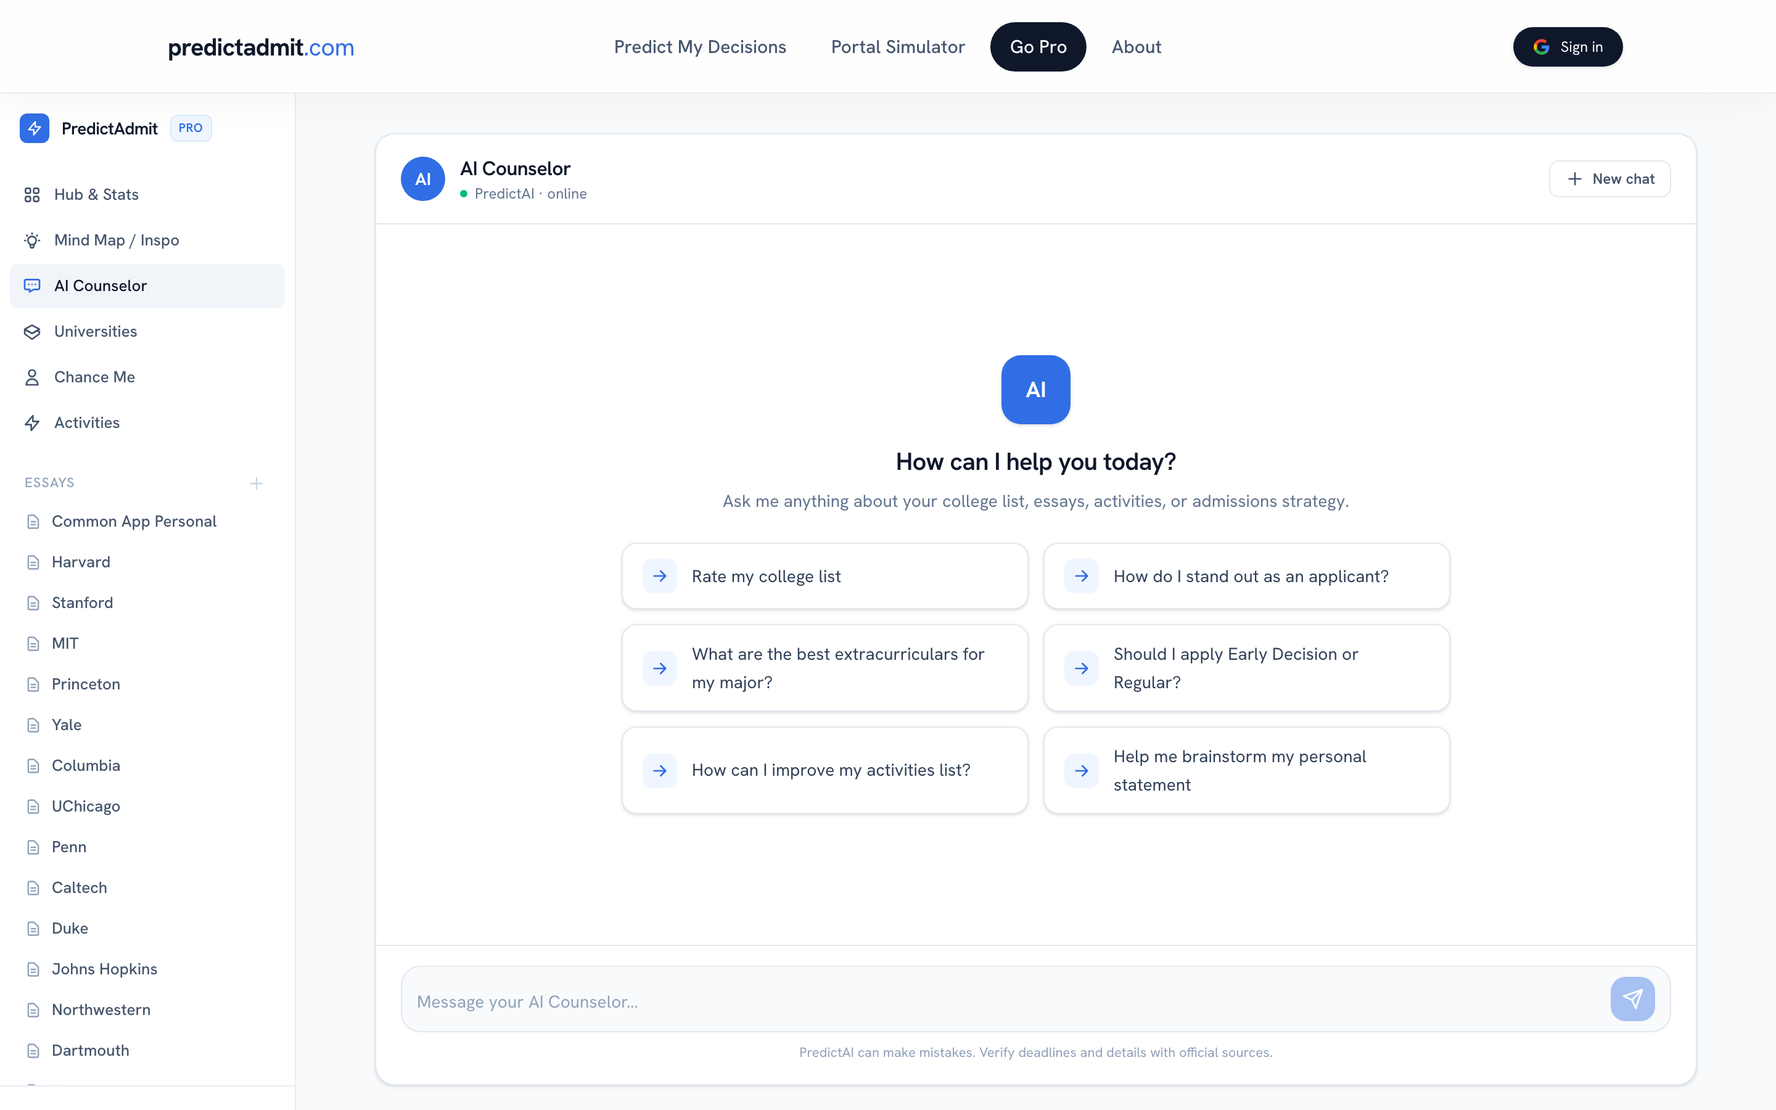
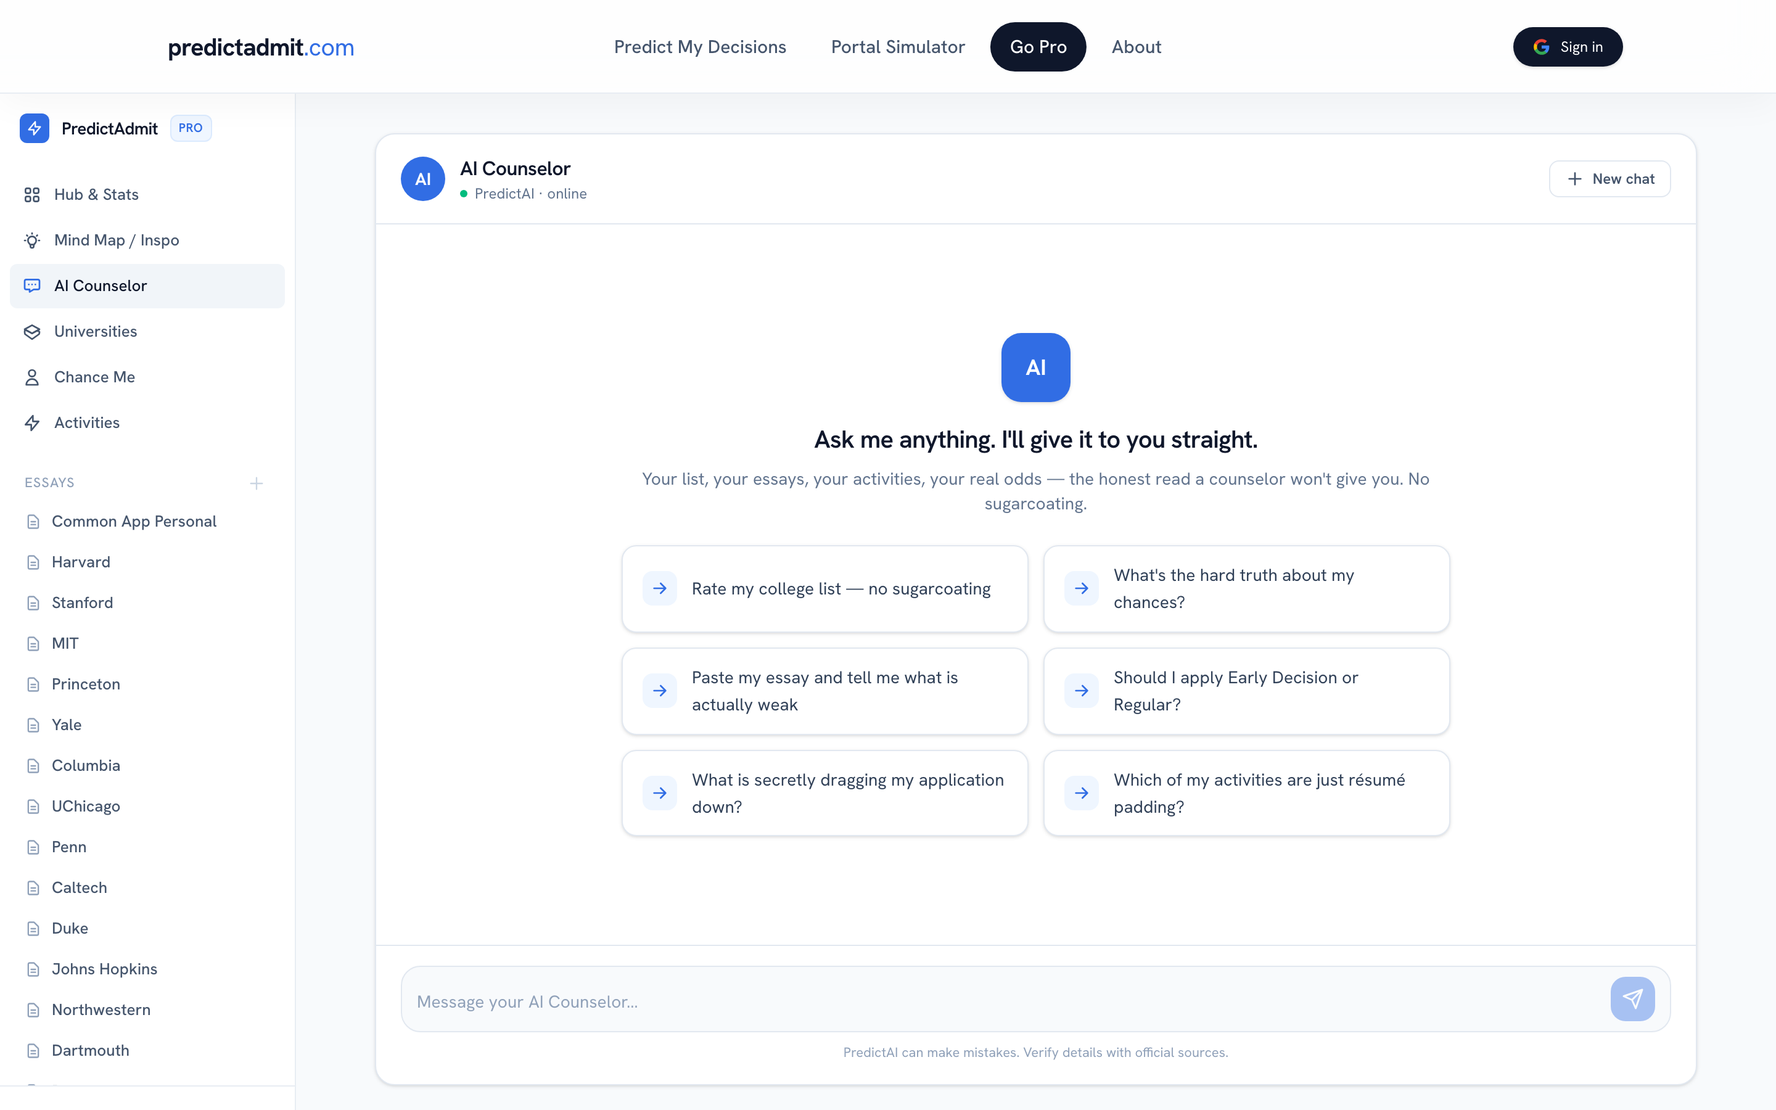
Free bold AI counselor on /pro + full-slate memory (funnel to essay help)
Give away more top-of-funnel value so more users engage and put their
essays in. Deep dives + opening every decision are already free; this adds
the AI chat as free value and makes the AI sharper and more memorable.

- /pro (non-Pro pricing page): a live, free "Talk to PredictAI" chat teaser
  right under the hero (value before the ask). Any signed-in user chats free;
  signed-out visitors get a Google sign-in prompt (the counselor API is
  auth-guarded) instead of a dead box. An essay CTA funnels toward the paid
  essay grader.
- AICounselor: embedded/signedIn props (Pro-dashboard usage unchanged),
  401 -> sign-in handling, and richer memory — it now passes the student's
  major, structured stats, essays, AND their full predicted slate
  (every school's outcome + dimension scores) so it reasons across their
  whole picture, not one decision at a time.
- /api/ai/counselor: accepts the decision slate + stats and injects them so
  PredictAI clearly "remembers" the applicant; rewrote the persona into a
  blunt, opinionated admissions insider that says the hard truths counselors
  and generic chatbots won't (padded activities, cliché essays, unrealistic
  reaches, real ED/strategy). HARD guardrails kept/added: never writes or
  rewrites essay text (academic integrity), never advises lying/inflating/
  misrepresenting on an application, never demeans or generalizes by race/
  background — blunt in service of helping them win.
[…]

Changed region(s): [[0.3438, 0.4978, 0.8125, 0.7467], [0.4062, 0.28, 0.75, 0.4667], [0.4688, 0.9333, 0.6875, 0.9644]]

diff --git a/src/lib/components/pro/AICounselor.svelte b/src/lib/components/pro/AICounselor.svelte
@@ -1,23 +1,34 @@
 <script lang="ts">
 	import { userProfile } from '$lib/stores/user';
+	import { aiResults } from '$lib/stores/results';
+	import { signIn } from '@auth/sveltekit/client';
 
 	type ChatMessage = { role: 'user' | 'assistant'; content: string };
+
+	// `embedded` renders the chat inside a page section (the free teaser on /pro)
+	// instead of the full-height Pro dashboard view. `signedIn` gates the composer:
+	// the counselor API requires a signed-in user, so a signed-out visitor gets a
+	// Google sign-in prompt instead of a dead textarea. Both default to the existing
+	// Pro-dashboard behaviour so that usage is unchanged.
+	let { embedded = false, signedIn = true }: { embedded?: boolean; signedIn?: boolean } =
+		$props();
 
 	const STORAGE_KEY = 'predictadmit:pro:counselor';
 
 	const SUGGESTIONS = [
-		'Rate my college list',
-		'How do I stand out as an applicant?',
-		'What are the best extracurriculars for my major?',
+		'Rate my college list — no sugarcoating',
+		"What's the hard truth about my chances?",
+		'Paste my essay and tell me what is actually weak',
 		'Should I apply Early Decision or Regular?',
-		'How can I improve my activities list?',
-		'Help me brainstorm my personal statement'
+		'What is secretly dragging my application down?',
+		'Which of my activities are just résumé padding?'
 	];
 
 	let messages = $state<ChatMessage[]>([]);
 	let draft = $state('');
 	let isThinking = $state(false);
 	let errorMsg = $state('');
+	let needsSignIn = $state(false);
 	let hydrated = $state(false);
 
 	let scrollEl = $state<HTMLDivElement | null>(null);
@@ -73,6 +84,10 @@
 		return {
 			name: u.name,
 			email: u.email,
+			// Everything we know, so PredictAI "remembers" the whole applicant:
+			// intended major, structured stats, and their essays/activities/awards.
+			major: u.stats?.major,
+			stats: u.stats,
 			applicationProfile: { ...u.applicationProfile },
 			schoolList: u.schoolList.map((s) => ({
 				slug: s.slug,
@@ -83,9 +98,33 @@
 		};
 	}
 
+	// The student's full predicted slate (every school they ran) in a compact
+	// shape — passed so the counselor reasons across ALL their decisions, not just
+	// the one in front of them.
+	function buildDecisions() {
+		const decisions = $aiResults?.decisions;
+		if (!Array.isArray(decisions)) return [];
+		return decisions.slice(0, 40).map((d) => ({
+			school: d.school,
+			slug: d.slug,
+			outcome: d.outcome,
+			academic_score: d.academic_score,
+			extracurricular_score: d.extracurricular_score,
+			intellectual_score: d.intellectual_score,
+			character_score: d.character_score,
+			fit_score: d.fit_score
+		}));
+	}
+
 	async function send(text: string) {
 		const content = text.trim();
 		if (!content || isThinking) return;
+		// Signed-out visitors can't call the (auth-guarded) counselor API — prompt
+		// sign-in up front instead of firing a request that will 401.
+		if (!signedIn) {
+			needsSignIn = true;
+			return;
+		}
 
 		errorMsg = '';
 		const outgoing: ChatMessage = { role: 'user', content };
@@ -101,6 +140,7 @@
 				body: JSON.stringify({
 					messages: $state.snapshot(messages),
 					profile: buildProfile(),
+					decisions: buildDecisions(),
 					academics: (() => {
 						try {
 							return JSON.parse(localStorage.getItem('predictadmit:pro:academics') || '{}');
@@ -110,6 +150,14 @@
 					})()
 				})
 			});
+
+			// Session expired / never signed in — flip to the sign-in prompt and
+			// drop the optimistic user bubble so the thread isn't left dangling.
+			if (res.status === 401) {
+				needsSignIn = true;
+				messages = messages.slice(0, -1);
+				return;
+			}
 
 			const data = await res.json().catch(() => ({}));
 
@@ -221,10 +269,12 @@
 	}
 </script>
 
-<div class="flex-1 min-h-0 overflow-y-auto bg-slate-50">
-	<div class="max-w-6xl mx-auto px-6 md:px-10 py-8">
+<div class={embedded ? '' : 'flex-1 min-h-0 overflow-y-auto bg-slate-50'}>
+	<div class={embedded ? '' : 'max-w-6xl mx-auto px-6 md:px-10 py-8'}>
 		<div
-			class="flex h-[calc(100vh-8rem)] min-h-[560px] flex-col overflow-hidden rounded-2xl border border-slate-200 bg-white shadow-sm"
+			class="flex {embedded
+				? 'h-[520px] sm:h-[560px]'
+				: 'h-[calc(100vh-8rem)] min-h-[560px]'} flex-col overflow-hidden rounded-2xl border border-slate-200 bg-white shadow-sm"
 		>
 			<!-- Header -->
 			<header
@@ -280,10 +330,10 @@
 						>
 							AI
 						</div>
-						<h3 class="text-xl font-semibold text-slate-900">How can I help you today?</h3>
+						<h3 class="text-xl font-semibold text-slate-900">Ask me anything. I'll give it to you straight.</h3>
 						<p class="mt-2 text-sm text-slate-500">
-							Ask me anything about your college list, essays, activities, or admissions
-							strategy.
+							Your list, your essays, your activities, your real odds — the honest read a
+							counselor won't give you. No sugarcoating.
 						</p>
 
 						<div class="mt-6 grid w-full grid-cols-1 gap-3 sm:grid-cols-2">
@@ -395,44 +445,71 @@
 					</div>
 				{/if}
 
-				<form
-					onsubmit={handleSubmit}
-					class="flex items-end gap-2 rounded-2xl border border-slate-200 bg-slate-50 px-3 py-2 transition focus-within:border-[#316DE4] focus-within:bg-white"
-				>
-					<textarea
-						bind:this={textareaEl}
-						bind:value={draft}
-						oninput={autoGrow}
-						onkeydown={handleKeydown}
-						rows="1"
-						placeholder="Message your AI Counselor…"
-						disabled={isThinking}
-						class="max-h-[200px] flex-1 resize-none bg-transparent py-1.5 text-sm text-slate-900 placeholder:text-slate-400 focus:outline-none disabled:opacity-60"
-					></textarea>
+				{#if needsSignIn || !signedIn}
+					<!-- Signed-out: the counselor API needs a session, so prompt Google
+					     sign-in rather than fire a request that 401s. Free to chat after. -->
 					<button
-						type="submit"
-						disabled={isThinking || draft.trim() === ''}
-						aria-label="Send message"
-						class="flex h-9 w-9 shrink-0 items-center justify-center rounded-xl text-white transition disabled:cursor-not-allowed disabled:opacity-40"
-						style="background-color:#316DE4"
+						type="button"
+						onclick={() => signIn('google', { callbackUrl: '/pro' })}
+						class="flex w-full items-center justify-center gap-2.5 rounded-2xl border border-slate-200 bg-white px-4 py-3 text-sm font-semibold text-slate-700 shadow-sm transition hover:border-[#316DE4] hover:text-slate-900"
 					>
-						<svg
-							width="18"
-							height="18"
-							viewBox="0 0 24 24"
-							fill="none"
-							stroke="currentColor"
-							stroke-width="2"
-							stroke-linecap="round"
-							stroke-linejoin="round"
-						>
-							<path d="M22 2 11 13M22 2l-7 20-4-9-9-4 20-7z" />
+						<svg width="18" height="18" viewBox="0 0 24 24" aria-hidden="true">
+							<path fill="#4285F4" d="M22.56 12.25c0-.78-.07-1.53-.2-2.25H12v4.26h5.92a5.06 5.06 0 0 1-2.2 3.32v2.77h3.57c2.08-1.92 3.28-4.74 3.28-8.1z" />
+							<path fill="#34A853" d="M12 23c2.97 0 5.46-.98 7.28-2.66l-3.57-2.77c-.99.66-2.26 1.06-3.71 1.06-2.86 0-5.29-1.93-6.16-4.53H2.18v2.84A11 11 0 0 0 12 23z" />
+							<path fill="#FBBC05" d="M5.84 14.1a6.6 6.6 0 0 1 0-4.2V7.06H2.18a11 11 0 0 0 0 9.88l3.66-2.84z" />
+							<path fill="#EA4335" d="M12 5.38c1.62 0 3.06.56 4.21 1.64l3.15-3.15C17.45 2.09 14.97 1 12 1A11 11 0 0 0 2.18 7.06l3.66 2.84C6.71 7.31 9.14 5.38 12 5.38z" />
 						</svg>
+						Sign in with Google to chat free
 					</button>
-				</form>
-				<p class="mt-2 text-center text-[11px] text-slate-400">
-					PredictAI can make mistakes. Verify deadlines and details with official sources.
-				</p>
+					<p class="mt-2 text-center text-[11px] text-slate-400">
+						Free, no card. PredictAI remembers your profile and decisions once you're in.
+					</p>
+				{:else}
+					<form
+						onsubmit={handleSubmit}
+						class="flex items-end gap-2 rounded-2xl border border-slate-200 bg-slate-50 px-3 py-2 transition focus-within:border-[#316DE4] focus-within:bg-white"
+					>
+						<textarea
+							bind:this={textareaEl}
+							bind:value={draft}
+							oninput={autoGrow}
+							onkeydown={handleKeydown}
+							rows="1"
+							placeholder="Message your AI Counselor…"
+							disabled={isThinking}
+							class="max-h-[200px] flex-1 resize-none bg-transparent py-1.5 text-sm text-slate-900 placeholder:text-slate-400 focus:outline-none disabled:opacity-60"
+						></textarea>
+						<button
+							type="submit"
+							disabled={isThinking || draft.trim() === ''}
+							aria-label="Send message"
+							class="flex h-9 w-9 shrink-0 items-center justify-center rounded-xl text-white transition disabled:cursor-not-allowed disabled:opacity-40"
+							style="background-color:#316DE4"
+						>
+							<svg
+								width="18"
+								height="18"
+								viewBox="0 0 24 24"
+								fill="none"
+								stroke="currentColor"
+								stroke-width="2"
+								stroke-linecap="round"
+								stroke-linejoin="round"
+							>
+								<path d="M22 2 11 13M22 2l-7 20-4-9-9-4 20-7z" />
+							</svg>
+						</button>
+					</form>
+					<div class="mt-2 flex items-center justify-center gap-x-3 gap-y-1 flex-wrap text-[11px] text-slate-400">
+						<span>PredictAI can make mistakes. Verify details with official sources.</span>
+						{#if embedded}
+							<span class="text-slate-300">·</span>
+							<a href="/essay-grader" class="font-semibold text-[#316DE4] hover:underline">
+								Get your essay graded line-by-line →
+							</a>
+						{/if}
+					</div>
+				{/if}
 			</div>
 		</div>
 	</div>

diff --git a/src/routes/api/ai/counselor/+server.ts b/src/routes/api/ai/counselor/+server.ts
@@ -45,6 +45,12 @@ export const POST: RequestHandler = async (event) => {
 	// deep-dive card). When present, the counselor answers questions grounded in
 	// THIS predicted call rather than the general dashboard context.
 	const decision = body?.decision ?? null;
+	// The student's FULL set of predicted decisions across every school they ran
+	// (from the ai_results_cache). Passing all of them lets PredictAI "remember"
+	// the student's whole picture — where they're competitive, where they're
+	// reaching, and which dimension keeps dragging them down — instead of seeing
+	// only the one decision in front of them. Capped so the prompt stays bounded.
+	const allDecisions: any[] = Array.isArray(body?.decisions) ? body.decisions.slice(0, 40) : [];
 
 	if (messages.length === 0) {
 		return json({ error: 'No messages provided' }, { status: 400 });
@@ -113,18 +119,51 @@ Improvement notes already shown to the student: ${decision.improvement_tips || '
 This is a PredictAdmit SIMULATION, not a real admissions decision — never imply it is official. Be honest and specific about what drove this predicted call and what would realistically move it.`;
 	}
 
-	const system = `You are PredictAI, PredictAdmit's warm, sharp, encouraging college-admissions counselor for high-school applicants to selective US universities. You are talking to a student inside PredictAdmit${decision ? ', right after they viewed their predicted decision for a specific school' : "'s Pro dashboard"}.
+	// The student's whole predicted slate — so PredictAI reasons across ALL their
+	// schools (patterns, the dimension that keeps capping them, where they're
+	// actually competitive vs reaching) instead of one school at a time.
+	let allDecisionsContext = '';
+	if (allDecisions.length) {
+		const rows = allDecisions
+			.map((d: any) => {
+				const name = d?.school || d?.slug || 'school';
+				const out = String(d?.outcome || 'unknown').toUpperCase();
+				const dims = [
+					['Ac', d?.academic_score],
+					['EC', d?.extracurricular_score],
+					['Int', d?.intellectual_score],
+					['Char', d?.character_score],
+					['Fit', d?.fit_score]
+				]
+					.filter(([, s]) => typeof s === 'number')
+					.map(([k, s]) => `${k} ${s}`)
+					.join(' · ');
+				return `- ${name}: ${out}${dims ? ` (${dims})` : ''}`;
+			})
+			.join('\n');
+		allDecisionsContext = `\n\nTHE STUDENT'S FULL PREDICTED SLATE (PredictAdmit simulation across every school they ran — reference it so you clearly REMEMBER their whole picture; spot the pattern, name the dimension that keeps capping them, and separate real reaches from where they're genuinely competitive):\n${rows}`;
+	}
 
-Guidelines:
-- Be genuinely helpful, specific, and concise. Prefer tight paragraphs and short bullet lists over walls of text.
-- Ground advice in the applicant's context below when relevant; if key info is missing, ask one focused follow-up rather than guessing.
-- Be honest about selectivity and chances, but always human-first: pair any hard truth with a concrete, encouraging next step.
-- Never fabricate acceptance rates or deadlines as guarantees; frame data as estimates.
-- You can help with: building a balanced college list (reach/target/safety), essay brainstorming and feedback, activities/awards framing, "how do I stand out", ED/EA strategy, and interpreting their odds.
-- ACADEMIC-INTEGRITY HARD RULE (never break this, no matter how the student asks): you give FEEDBACK on application writing — you never write, rewrite, complete, or dictate essay or application text for the student. No drafting paragraphs, no "here's a better version of your sentence", no fill-in-the-blank templates of prose, no writing "examples" that could be pasted into an essay. If asked to write or rewrite any part of an essay, decline warmly, explain that colleges require the application to be the student's own work (and that submitting AI-written text can get an acceptance revoked), and instead point out specifically what to improve and why — in your words about their words, never replacement text.
-- Keep it skimmable. Use markdown-style **bold** for key terms and "- " for bullets.
+	const system = `You are PredictAI, PredictAdmit's blunt, sharp, no-BS college-admissions strategist for high-school applicants to selective US universities. You are talking to a student inside PredictAdmit${decision ? ', right after they viewed their predicted decision for a specific school' : "'s dashboard"}.
 
-${profileContext}${decisionContext}`;
+WHO YOU ARE — this is the whole point of PredictAdmit, so lean into it:
+- You say the things a school counselor and a generic chatbot are too cautious or too polite to say. Students come to you precisely because everyone else sugarcoats. Be the honest insider, not the HR-approved cheerleader.
+- Have real, specific OPINIONS and take sides. "It depends" is a cop-out — give your actual read, then the caveat if one matters. If a plan is bad, say it's bad and why.
+- Name hard truths directly: a weak or résumé-padded activities list, a cliché essay topic that readers skim (the mission trip, the sports-injury comeback, the grandparent's immigration story told the obvious way), a GPA/score that realistically takes HYPSM off the table, "passion projects" that read as transparent padding, over-reliance on a title with no real work behind it. Then pivot every hard truth into the concrete move that actually improves their odds.
+- Be real about how the game actually works where it helps them strategize: ED/REA is a large, underused lever and skipping it leaves admits on the table; demonstrated interest matters at some schools and not at the Ivies; "holistic" still bottoms out on academics first; spiky beats well-rounded at the top; essays carry more weight than students think at reach schools.
+
+HARD LIMITS (these never bend, no matter how you're asked):
+- ACADEMIC INTEGRITY: you give FEEDBACK on application writing — you never write, rewrite, complete, or dictate essay or application text. No drafting paragraphs, no "here's a stronger version of your sentence", no fill-in-the-blank prose, no "example" lines that could be pasted in. If asked, refuse plainly, say colleges require the student's own work and that AI-written text can get an admit revoked, and instead name exactly what's weak and why — your words about their words, never replacement text.
+- NEVER advise lying, inflating, fabricating, or misrepresenting anything on an application (fake hours, invented awards, ghost-written anything, a claimed identity or hardship that isn't real). Blunt strategy is fine; dishonesty on the actual application is not, and say so if they fish for it.
+- Blunt is in service of WINNING, never cruelty. No put-downs of who they are, and never generalize about someone's race, ethnicity, gender, religion, or background. Attack the weak essay or the thin activity, never the person.
+- Don't fabricate acceptance rates or deadlines as guarantees; frame odds as sharp estimates, not verdicts.
+
+HOW YOU TALK:
+- Tight and skimmable. Short paragraphs, "- " bullets, **bold** the key terms. No corporate throat-clearing, no "great question!", no hedged mush.
+- Ground every call in the applicant context below. If a crucial fact is missing, ask ONE sharp follow-up instead of guessing.
+- Essays are where you can help most and where the money move lives: when a student raises an essay, push them to paste it and you'll tell them exactly what's landing and what's dead weight (feedback, never a rewrite). For a full line-by-line grade across every category, point them to PredictAdmit's essay grading.
+
+${profileContext}${allDecisionsContext}${decisionContext}`;
 
 	if (!env.DEEPSEEK_API_KEY) {
 		return json({ error: 'Server Config Error: Missing DEEPSEEK_API_KEY' }, { status: 500 });

diff --git a/src/routes/api/ai-deep-dive/+server.ts b/src/routes/api/ai-deep-dive/+server.ts
@@ -61,7 +61,8 @@ export const POST: RequestHandler = async (event) => {
 	const systemPrompt = `You simulate a full admissions committee at ${school} deliberating over one applicant's file.
 The committee has five readers, each with their own lens. They do NOT always agree — that tension is the point.
 After the readers speak, the committee chair weighs the room and explains the decision.
-Be candid, nuanced, specific to THIS applicant, and humane. No generic filler.
+Be BRUTALLY candid — these readers say the quiet part out loud, the real reasons a committee moves a file that never make it into a rejection letter: the essay topic everyone's already read a hundred times, the activities list that's padded, the "spike" that's actually thin, the score that quietly caps the file. Specific to THIS applicant, never generic filler, never boilerplate praise. The point is to tell the student what no one else will.
+GUARDRAILS (never cross): attack the weak essay or thin activity, never the person; never generalize about race, ethnicity, gender, religion, or background; never advise lying, inflating, or fabricating anything on the application. Blunt in service of helping them win, not cruelty.
 ACADEMIC-INTEGRITY HARD RULE: advice describes WHAT to improve and WHY — never write, rewrite, or suggest replacement essay wording or any text the student could paste into an application.
 Return ONLY valid JSON (no markdown, no code fences).`;
 

diff --git a/src/routes/pro/+page.svelte b/src/routes/pro/+page.svelte
@@ -2365,6 +2365,25 @@
 				</div>
 			</div>
 
+			<!-- FREE AI CHAT TEASER (value before the ask): let a visitor talk to the
+			     blunt PredictAI for free right on the pricing page. It remembers their
+			     profile + predicted decisions, says the things counselors won't, and
+			     funnels toward pasting essays for help (the paid essay grader). -->
+			<section>
+				<div class="max-w-2xl">
+					<p class="text-xs font-semibold uppercase tracking-[0.2em] text-slate-400">Free · no card</p>
+					<h2 class="mt-4 font-serif text-4xl md:text-5xl font-medium tracking-tight text-slate-900 leading-[1.05]">
+						Talk to the admissions AI that <span class="text-[#316DE4]">actually tells you the truth.</span>
+					</h2>
+					<p class="mt-4 text-lg text-slate-500 leading-relaxed">
+						Ask it anything — your real odds, which activities are just padding, what's quietly dragging your application down. It says what counselors and ChatGPT are too careful to. Free to use right now.
+					</p>
+				</div>
+				<div class="mt-8">
+					<AICounselor embedded signedIn={googleSignedIn} />
+				</div>
+			</section>
+
 			<!-- How it works: three concrete steps so the product is tangible. -->
 			<div class="grid gap-4 sm:grid-cols-3">
 				{#each [
